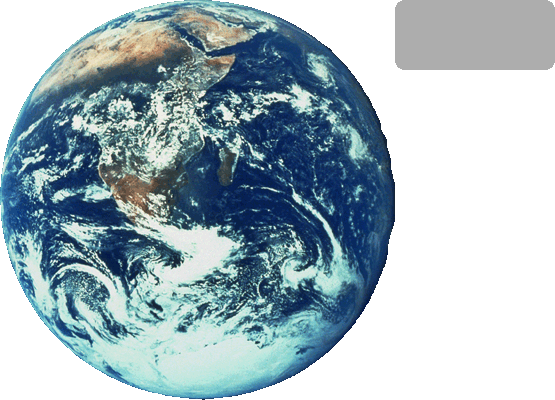
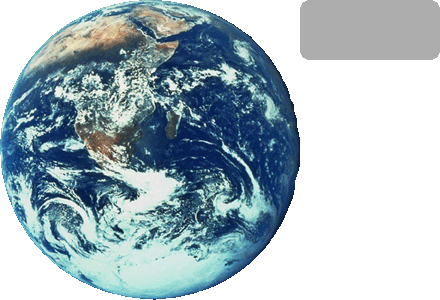
task_26

diff --git a/task_26/script.js b/task_26/script.js
@@ -1,0 +1,66 @@
+var count = 0;    /*计算飞船数量*/
+var list = document.getElementById('list');
+var shipAdd = list.getElementById('button');
+
+var AddEvent = (function() {
+	if (document.addEventListener) {
+		return function(ele, event, func) {
+			ele.addEventListener(event, func, false);
+		};
+	} else if (document.attachEvent) {
+		return function(ele, event, func) {
+			ele.attachEvent('on' + event, func);
+		};
+	} else {
+		return function (ele, event, func) {
+			ele['on' + event] = func;
+		};
+	}
+})();
+
+var random = function() {
+	var random = Math.random() * 10;
+	if (random >= 3) {
+		return true;
+	} else {
+		return false;
+	}
+};
+
+var addShip = function() {
+	var shipDiv = document.createElement('div');
+	count++;
+	var shipIntro = document.createElement('span');	
+	var shipStartFly = document.createElement('button');
+	var shipStopFly = document.createElement('button');
+	var shipDestroy = document.createElement('button');
+	shipDiv.appendChild(shipIntro);
+	shipDiv.appendChild(shipStartFly);
+	shipDiv.appendChild(shipStopFly);
+	shipDiv.appendChild(shipDestroy);
+	shipIntro.innerText = '对' + count + '号飞船下达指令：';
+	shipStartFly.innerText = '开始飞行';
+	shipStopFly.innerText = '停止飞行';
+	shipDestroy.innerText = '销毁';
+	list.insertBefore(shipDiv, shipAdd);
+};
+
+var shipStartFly = function() {
+	var display = document.getElementById('display');
+	var ship = document.createElement('span');
+	ship.setAttribute('class', 'ship');
+	ship.style.left = 500 + 'px';
+	ship.style.top = 75 + 'px';
+	var r = 225;
+	var x = 300;
+	var y = 300;
+
+	var ag = 0;
+	setInterval(function() {
+		ag++;
+		var a = Math.sin( ag*Math.PI/180 ) * r;
+		var b = Math.cos( ag*Math.PI/180 ) * r;
+		ship.style.left = x + b + 'px';
+		ship.style.top = y + a + 'px';
+	}, 30);
+};

diff --git a/task_26/style.css b/task_26/style.css
@@ -57,8 +57,8 @@ a {
 }
 
 .planet {
-	width: 395px;
-	height: 400px;
+	width: 300px;
+	height: 300px;
 	background-position: 0 0;
 }
 /*图片导入结束*/
@@ -67,20 +67,40 @@ a {
 
 /*整体宽度控制*/
 .wrapper {
-	width: 800px;
+	width: 600px;
 	height: 1000px;
 	margin: 0 auto;
-
 }
 
 .display {
-	width: 800px;
-	height: 800px;	
-	position: relative;
+	width: 600px;
+	height: 600px;
+	position: relative;	
 }
 
 .planet {
+	left: 150px;
+	top: 150px;
 	position: absolute;
-	top: 10%;
-	left: 25%;
+}
+
+.control {
+	width: 600px;
+	margin-top: 30px;
+	padding: 20px;
+	border: 1px solid #000000;
+}
+
+button {
+	padding: 10px;
+	border: 1px solid #878787;
+	border-radius: 10px;
+}
+
+.ship {
+	width: 140px;
+	height: 60px;
+	left: -70px;
+	top: -30px;
+	background-position: -300px 0;
 }

diff --git a/task_26/task_26.html b/task_26/task_26.html
@@ -11,9 +11,9 @@
 		<div class="display">
 			<span class="img planet"></span>
 		</div>
-		<br />
-		<div class="control">
-		</div>
+		<div class="control" id="list">		
+			<button>新的飞船起飞</button>
+		</div>			
 	</div>
 <script src="srcipt.js"></script>
 </body>
